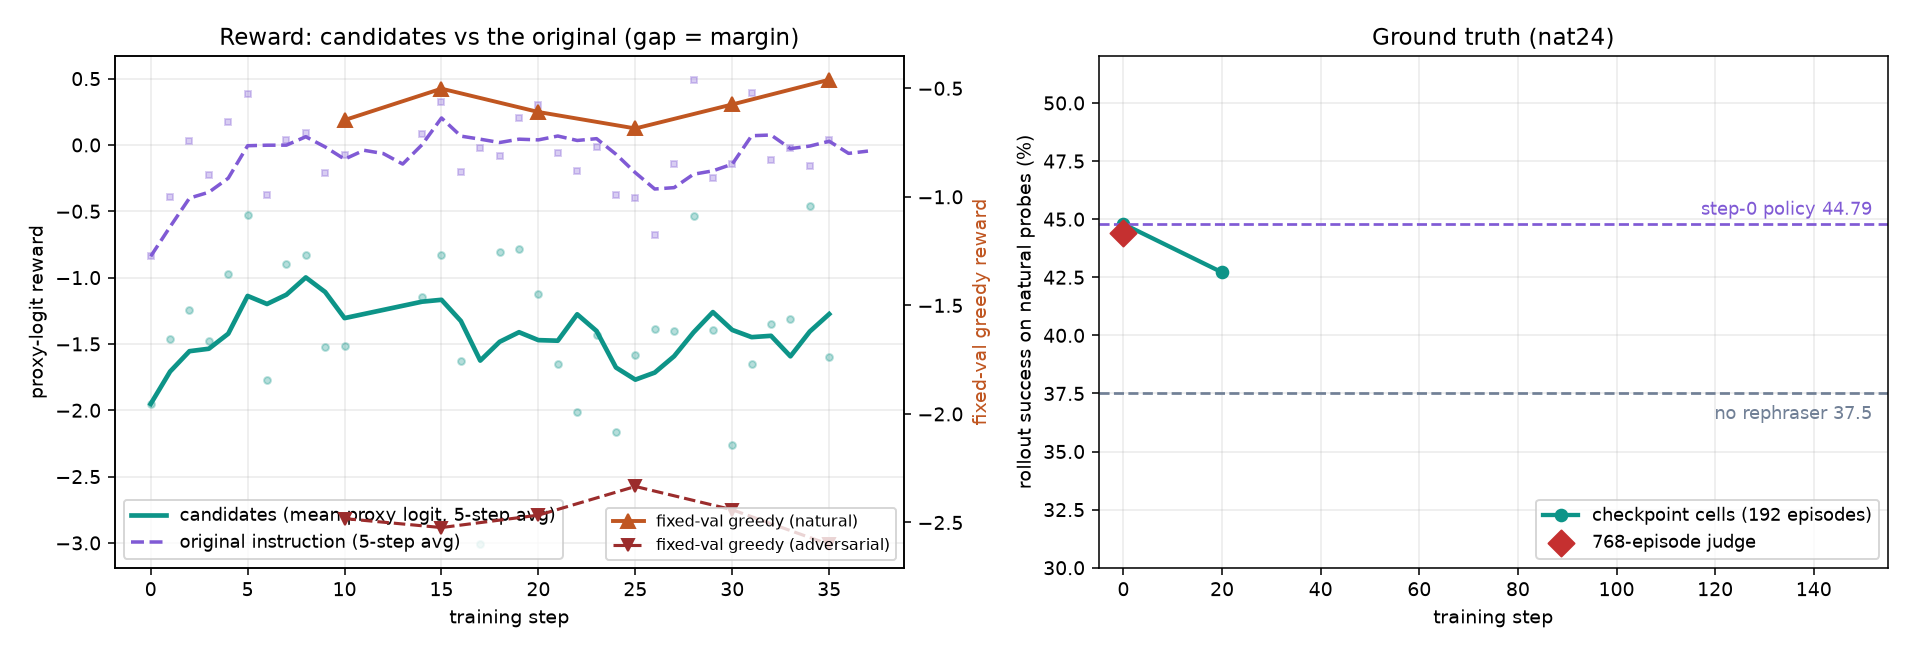
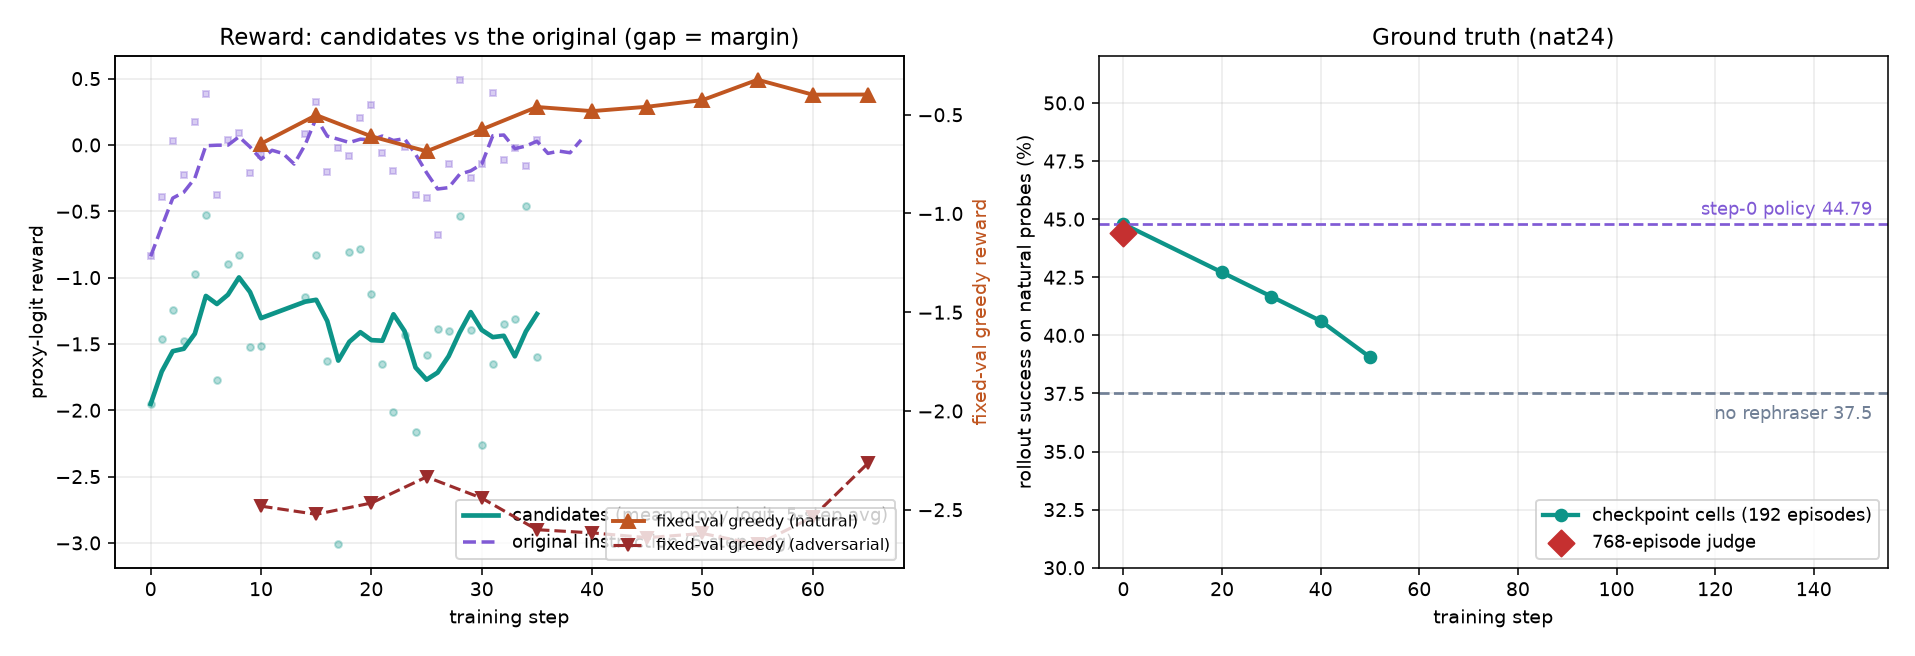
v12 step-60 review: gt trend -1.08pp/10 steps (CI excludes 0), Goodhart criterion tripped (verifier +0.60, grip worsened); recorded in spec, training continues per user order

diff --git a/ALGORITHM-RL-V12.md b/ALGORITHM-RL-V12.md
@@ -210,6 +210,21 @@ Delete `cand_blend_mean` or rename it `..._IS_A_RANK_DO_NOT_READ_AS_PROGRESS`.
 
 ## Falsification (pre-registered)
 
+**Step-60 review (2026-08-12, recorded; training continues per user order):**
+ground truth 7 cells 44.79/45.31/42.71/41.67/40.62/39.06/39.58 -- trend
+**-1.08pp per 10 steps, 95% CI [-1.37, -0.79]**, projecting ~29 at step 150
+(passthrough floor 37.5). Kill criteria: Goodhart signature **TRIPPED** --
+fixed-val verifier delta +0.60 (>0.3) while grip WORSENED (+0.0016 error);
+the entire blended-reward climb is verifier-channel. Spread floor NOT tripped
+(0.19-0.84, 2 groups skipped total); margin IS falling (policy climbs its
+reward). Interpretation: v12's defenses removed the rank-noise pathway and the
+policy still Goodharts -- via genuine verifier exploitation, faster and more
+damaging than v11 (flat -> actively negative), while keeping grip flat
+(physically plausible text that games the learned channel). The verifier
+network itself is the exploit surface; fixed coefficients cannot leash it.
+Direct evidence for uncertainty-penalized scoring + exploit hard-negatives
+(v13 plan).
+
 **Amendment (2026-08-12, user order): the step-60 kill criteria are ADVISORY
 for this run** -- report any trip, but train through the night regardless
 ("I want to see what happens"). The 36h autostop guard remains the only hard
